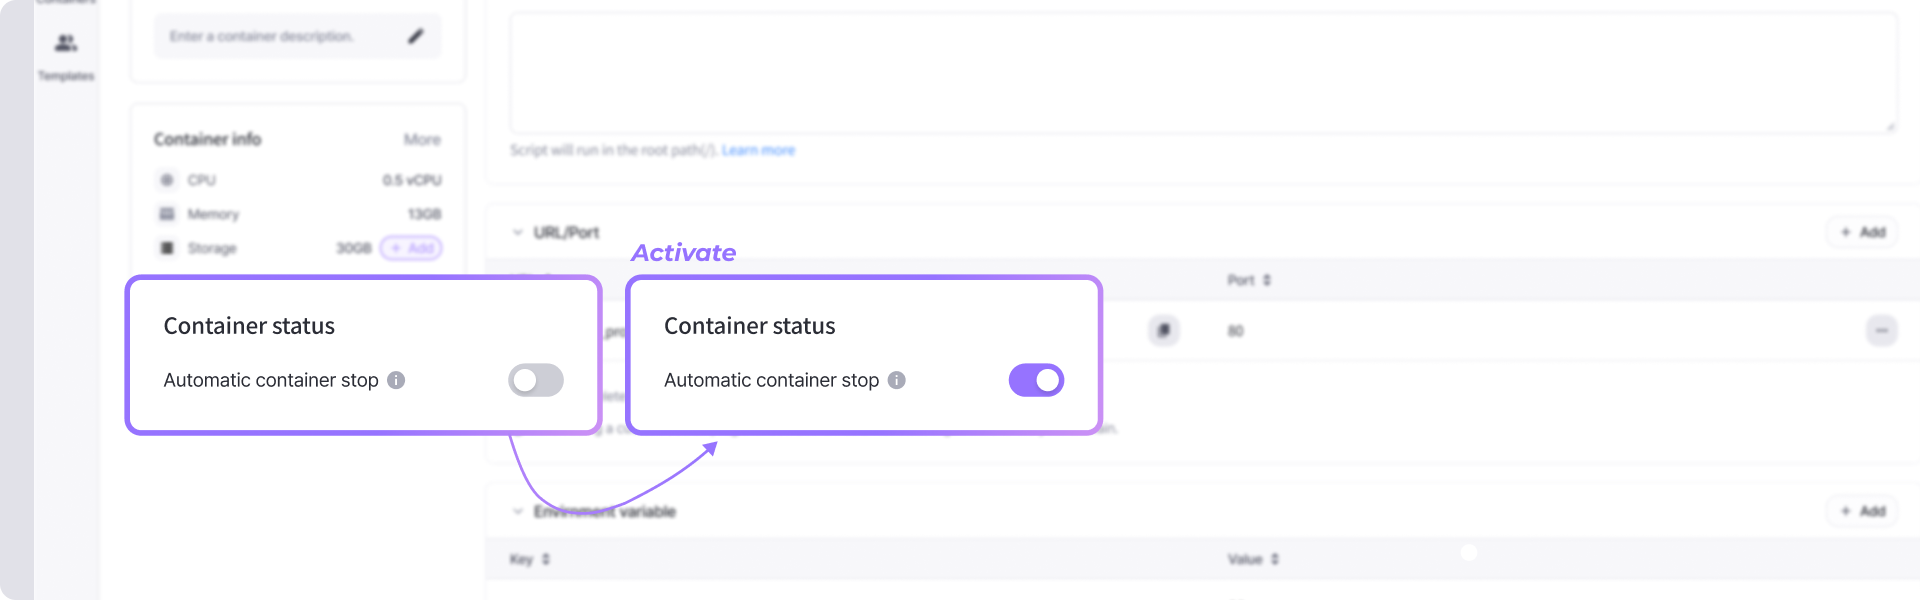
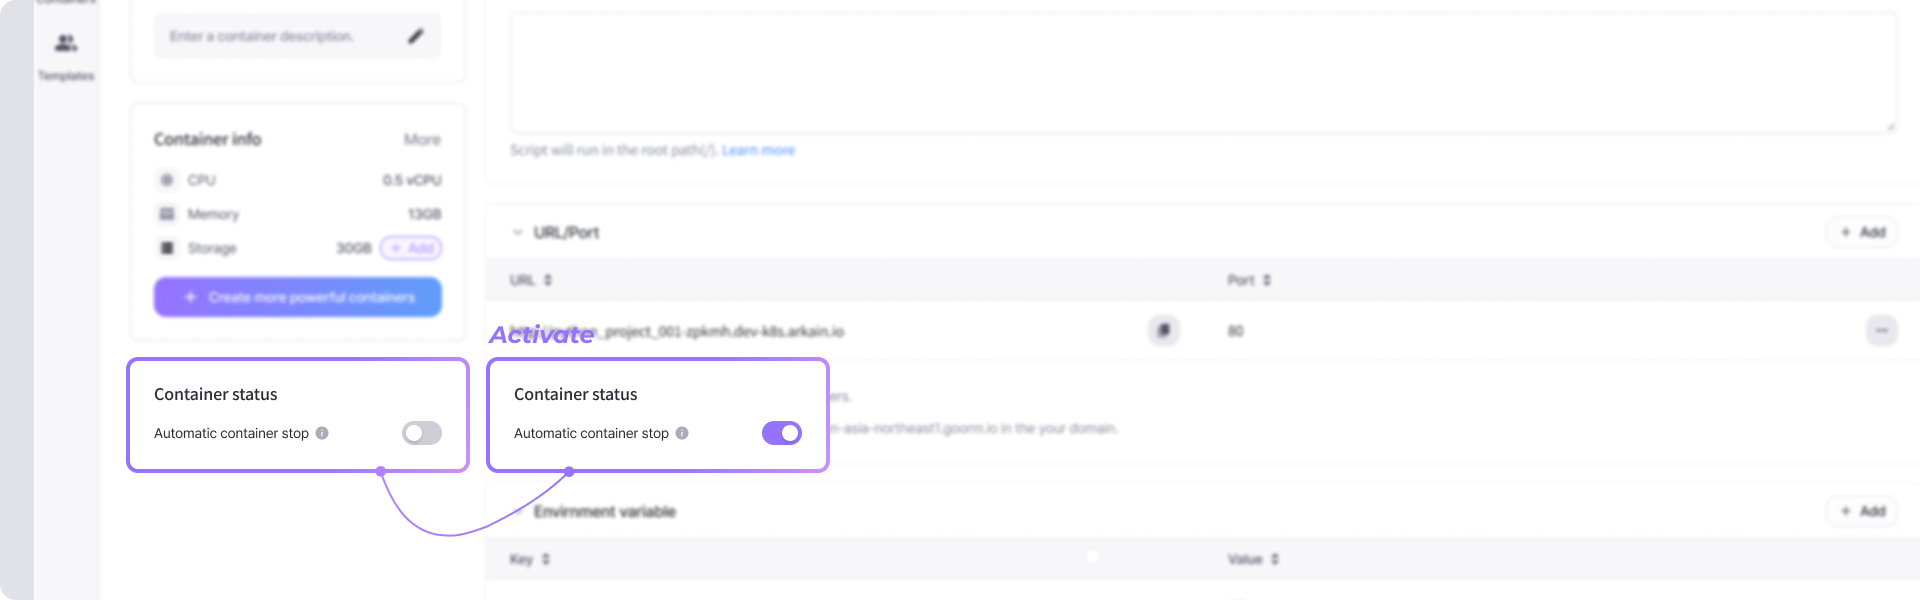
GITBOOK-244: No subject

Changed region(s): [[0.0625, 0.39, 0.5938, 0.84], [0.2812, 0.84, 0.3125, 0.87], [0.2188, 0.87, 0.25, 0.9]]

diff --git a/user-guide/dashboard/container/automatic-stop.md b/user-guide/dashboard/container/automatic-stop.md
@@ -34,13 +34,13 @@ You can set **Automatic Stop** from the Dashboard and Workspace.
 
 * Click Container setting button![](https://help.goorm.io/~gitbook/image?url=https%3A%2F%2F2181851870-files.gitbook.io%2F%7E%2Ffiles%2Fv0%2Fb%2Fgitbook-x-prod.appspot.com%2Fo%2Fspaces%252F-Lq-Q9LciN1X9EABxGkt%252Fuploads%252FAnr0KhV0ED5q8oUqo0zY%252Fimage.png%3Falt%3Dmedia%26token%3D8268a1f0-d890-4277-ac95-5dd60224a352\&width=300\&dpr=4\&quality=100\&sign=1527ba46\&sv=2) → Active **\[Automatic container stop]** in Container Status
 
-<figure><img src="../../../.gitbook/assets/automaticstop_01 (1).png" alt=""><figcaption></figcaption></figure>
+<figure><img src="../../../.gitbook/assets/automaticstop_01.png" alt=""><figcaption></figcaption></figure>
 
 ## From Workspace <a href="#from-ide" id="from-ide"></a>
 
-* Click the **\[Auto stop]** (<img src="../../../.gitbook/assets/autostop_button.png" alt="" data-size="line">) button in the bottom bar, and then click **\[Using feature]** in the popup window to enable the container's automatic stop feature.
-* To turn off the feature, click the **\[Auto stop]** (<img src="../../../.gitbook/assets/autostop_button.png" alt="" data-size="line">) button again and then click **\[Turn off the feature]** in the popup.
+* Click the **\[Auto stop]** (<img src="../../../.gitbook/assets/[core] Button.png" alt="" data-size="line">) button in the bottom bar, and then click **\[Using feature]** in the popup window to enable the container's automatic stop feature.
+* To turn off the feature, click the **\[Auto stop]** (<img src="../../../.gitbook/assets/[core] Button.png" alt="" data-size="line">) button again and then click **\[Turn off the feature]** in the popup.
 
-<figure><img src="../../../.gitbook/assets/automaticstop_02.png" alt=""><figcaption></figcaption></figure>
+<figure><img src="../../../.gitbook/assets/automaticstop_01-1.png" alt=""><figcaption></figcaption></figure>
 
-<figure><img src="../../../.gitbook/assets/automaticstop_03.png" alt=""><figcaption></figcaption></figure>
+<figure><img src="../../../.gitbook/assets/automaticstop_03 (1).png" alt=""><figcaption></figcaption></figure>

diff --git a/user-guide/workspace/README.md b/user-guide/workspace/README.md
@@ -18,7 +18,7 @@ Arkain's **Workspace** is an IDE environment designed to help you efficiently de
 
 The Menu bar is where you perform general operations on your Arkain Workspace. It includes, from left to right
 
-* The **\[Menu]** button(<img src="../../.gitbook/assets/[core] Button.png" alt="" data-size="line">) of the menu bar allowing users to Process list, SSH Configuration, Manage SBOM, and project properties, New Terminal Window.
+* The **\[Menu]** button(<img src="../../.gitbook/assets/[core] Button (1).png" alt="" data-size="line">) of the menu bar allowing users to Process list, SSH Configuration, Manage SBOM, and project properties, New Terminal Window.
 
 <figure><img src="../../.gitbook/assets/Workspace_03 (1).png" alt=""><figcaption></figcaption></figure>
 

diff --git a/user-guide/dashboard/container/container-managing/setting-container/sharing-container.md b/user-guide/dashboard/container/container-managing/setting-container/sharing-container.md
@@ -12,7 +12,7 @@ There are two ways to share containers:
 
 ### 1. **Share with Members**
 
-<figure><img src="../../../../../.gitbook/assets/스크린샷 2025-02-24 오후 3.53.04.png" alt="" width="513"><figcaption></figcaption></figure>
+<figure><img src="../../../../../.gitbook/assets/share_01.png" alt=""><figcaption></figcaption></figure>
 
 1. **Enter the email address** of the user you want to invite to the container.
    * The user's email **must be the email registered with Arkain.**
